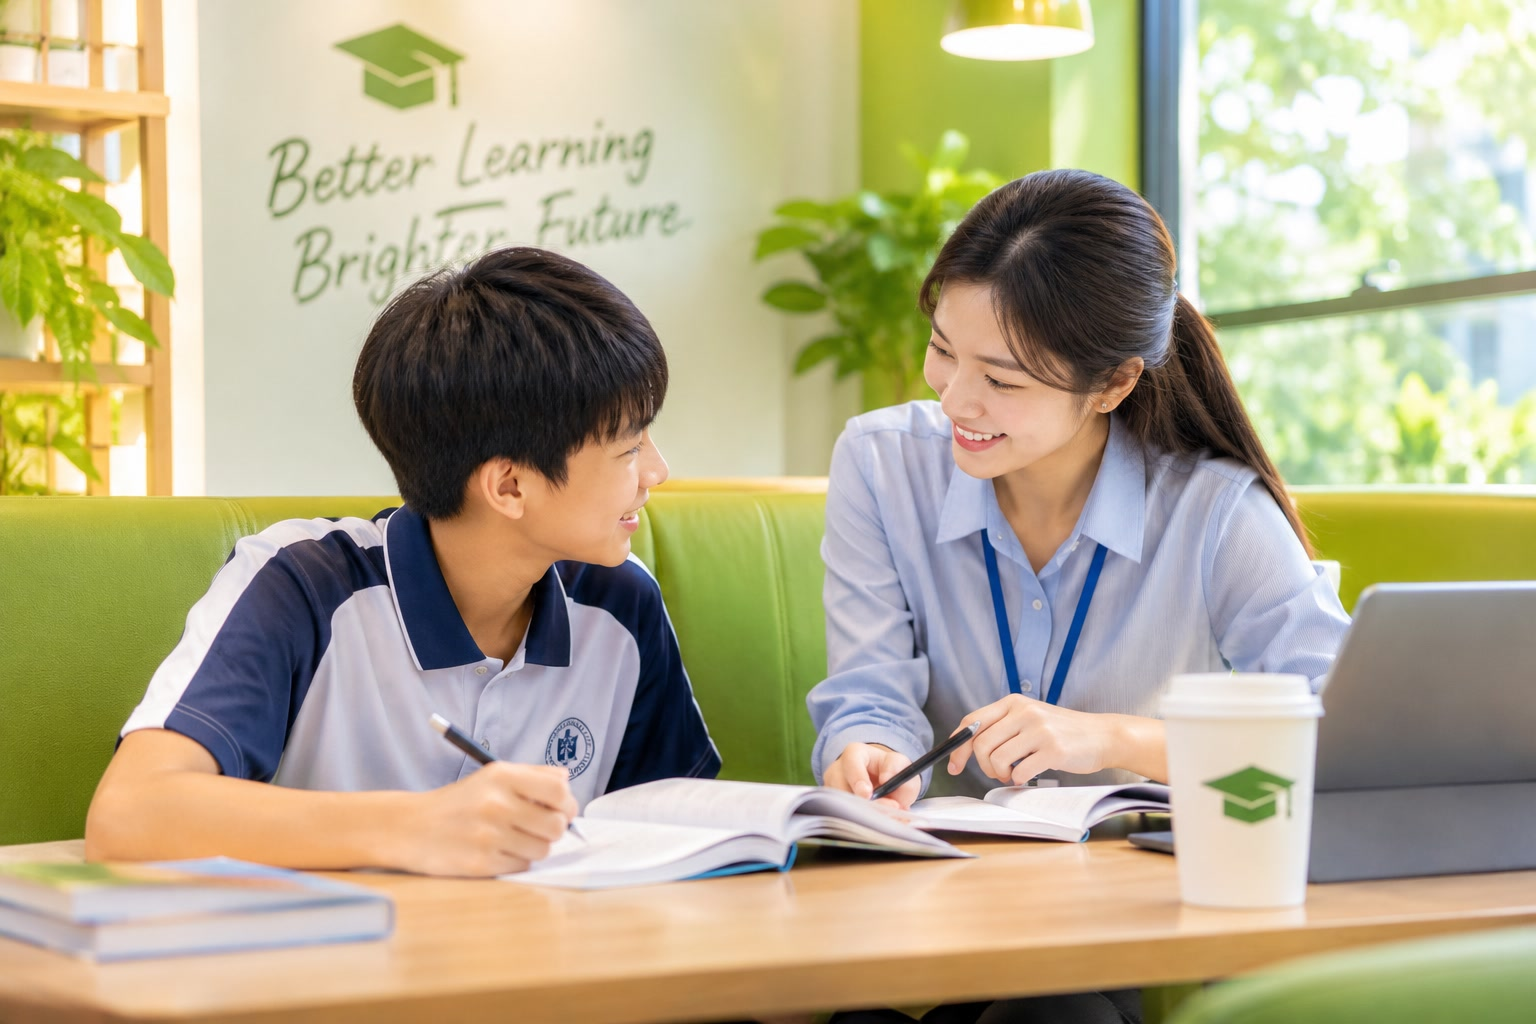
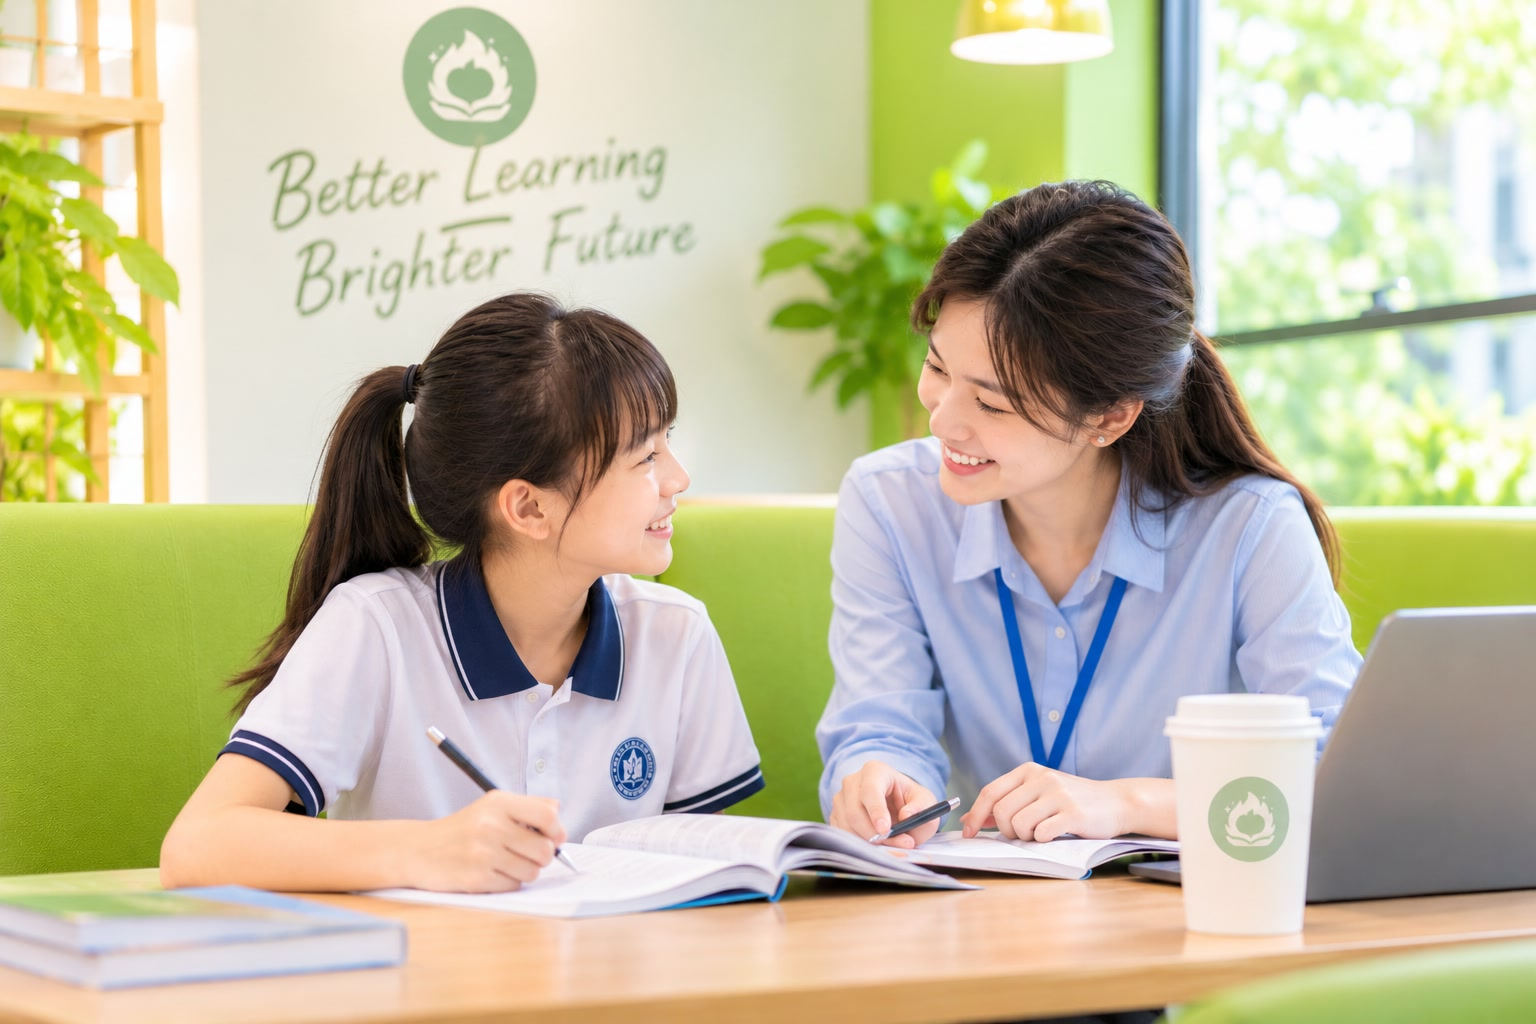
feat(home): girl-tutor hero, forest spark, frosted landing panels
Replace the landing photo, use the natural-companion spark on the index header, frost the first-screen panels, and paint the mentor entry card with the booth lime sampled from the photo.

diff --git a/index.html b/index.html
@@ -34,7 +34,23 @@
       position: relative;
       overflow: hidden;
       isolation: isolate;
+      margin-top: -4rem;
       background: #f1f5f9;
+    }
+    body:has(#roleGate:not(.hidden)) > header.xh-home-bar {
+      background: rgba(255, 255, 255, 0.46);
+      border-bottom-color: rgba(255, 255, 255, 0.45);
+      backdrop-filter: blur(16px);
+      -webkit-backdrop-filter: blur(16px);
+    }
+    body:has(#roleGate:not(.hidden)) > header.xh-home-bar .xh-home-login {
+      background: rgba(255, 255, 255, 0.55);
+      border-color: rgba(255, 255, 255, 0.72);
+      backdrop-filter: blur(12px);
+      -webkit-backdrop-filter: blur(12px);
+    }
+    body:has(#roleGate:not(.hidden)) > header.xh-home-bar .xh-home-login:hover {
+      background: rgba(255, 255, 255, 0.78);
     }
     .xh-home-hero-media,
     .xh-home-hero-scrim {
@@ -56,38 +72,74 @@
       width: 100%;
       height: 100%;
       object-fit: cover;
-      object-position: 64% 42%;
-      transform-origin: 64% 42%;
+      object-position: 52% 40%;
+      transform-origin: 52% 40%;
       animation: xh-home-kenburns 16s ease-in-out infinite alternate;
     }
     @keyframes xh-home-kenburns {
       from { transform: scale(1); }
       to { transform: scale(1.1); }
     }
+    .xh-home-hero > .relative {
+      padding-top: 6.5rem;
+    }
     .xh-home-hero-copy {
       max-width: 40rem;
       margin-left: auto;
       margin-right: auto;
-      background: rgba(241, 245, 249, 0.9);
-      border: 1px solid rgba(255, 255, 255, 0.75);
+      background: rgba(255, 255, 255, 0.68);
+      border: 1px solid rgba(255, 255, 255, 0.7);
       border-radius: 1.25rem;
       padding: 1.15rem 1.25rem 1.05rem;
       box-shadow: 0 10px 28px rgba(15, 23, 42, 0.08);
-      backdrop-filter: blur(8px);
-      -webkit-backdrop-filter: blur(8px);
+      backdrop-filter: blur(16px);
+      -webkit-backdrop-filter: blur(16px);
+    }
+    #roleGate .xh-home-role {
+      background: rgba(255, 255, 255, 0.72);
+      border-color: rgba(255, 255, 255, 0.72);
+      backdrop-filter: blur(16px);
+      -webkit-backdrop-filter: blur(16px);
+    }
+    #roleGate .xh-home-role:hover {
+      background: rgba(255, 255, 255, 0.84);
+    }
+    /* Booth lime sampled from the hero sofa: #ADC147 */
+    #roleGate .xh-home-mentor {
+      background: rgba(173, 193, 71, 0.8);
+      border-color: rgba(154, 174, 52, 0.9);
+      color: #0f172a;
+      backdrop-filter: blur(16px);
+      -webkit-backdrop-filter: blur(16px);
+    }
+    #roleGate .xh-home-mentor:hover {
+      background: rgba(156, 176, 58, 0.9);
+    }
+    #roleGate .xh-home-mentor .xh-home-mentor-icon {
+      background: rgba(255, 255, 255, 0.48);
+      color: #0f172a;
+    }
+    #roleGate .xh-home-mentor .xh-home-mentor-copy {
+      color: #1e293b;
+    }
+    #roleGate .xh-home-mentor .xh-home-mentor-go {
+      color: #0f172a;
+    }
+    #roleGate .xh-home-mentor:hover .xh-home-mentor-go {
+      color: #0f172a;
     }
     @media (max-width: 900px) {
       .xh-home-hero-media {
         bottom: auto;
-        height: 68vw;
-        max-height: 440px;
+        height: calc(4rem + 62vw);
+        max-height: 520px;
       }
       .xh-home-hero-img {
-        object-position: 60% 46%;
-        transform-origin: 60% 46%;
+        object-position: 50% 42%;
+        transform-origin: 50% 42%;
       }
       .xh-home-hero > .relative {
-        padding-top: min(54vw, 340px);
+        padding-top: calc(4rem + min(46vw, 240px));
       }
       .xh-home-hero-scrim {
         background: linear-gradient(180deg, rgba(15, 23, 42, 0.06) 0%, rgba(241, 245, 249, 0.08) 42%, rgba(241, 245, 249, 0.72) 62%, #f1f5f9 74%, #f1f5f9 100%);
@@ -105,12 +157,10 @@
 <body class="bg-slate-100 text-slate-800 antialiased min-h-screen flex flex-col font-sans selection:bg-teal-100 selection:text-teal-900 overflow-x-hidden max-w-[100vw]">
 
   <!-- 顶部系统通知与品牌栏 -->
-  <header class="sticky top-0 z-40 bg-white/95 backdrop-blur-md border-b border-slate-200 shadow-sm transition-all duration-300">
+  <header class="xh-home-bar sticky top-0 z-40 bg-white/95 backdrop-blur-md border-b border-slate-200 shadow-sm transition-all duration-300">
     <div class="max-w-5xl mx-auto px-4 py-3 flex items-center justify-between">
       <div class="flex items-center space-x-3">
-        <div class="w-9 h-9 rounded-xl bg-gradient-to-tr from-teal-700 to-teal-500 text-white flex items-center justify-center font-bold text-lg shadow-md shadow-teal-500/20">
-          <i class="fa-solid fa-graduation-cap"></i>
-        </div>
+        <img src="assets/brand/spark-logo-forest-noface-192.png" alt="星火学伴" width="36" height="36" class="w-9 h-9 rounded-full shrink-0 object-cover" decoding="async" />
         <div>
           <span class="font-black text-slate-900 text-base tracking-tight block leading-tight">星火学伴</span>
           <span class="text-xs text-teal-700 font-medium tracking-wide block">阳光合规一对一课业辅导</span>
@@ -118,7 +168,7 @@
       </div>
 
       <div class="flex items-center gap-2">
-        <button type="button" onclick="safeNavigate('login.html?role=parent', '家长登录')" class="text-xs bg-white hover:bg-slate-50 text-slate-600 px-2.5 py-1.5 rounded-lg border border-slate-200 transition font-medium cursor-pointer">
+        <button type="button" onclick="safeNavigate('login.html?role=parent', '家长登录')" class="xh-home-login text-xs bg-white hover:bg-slate-50 text-slate-600 px-2.5 py-1.5 rounded-lg border border-slate-200 transition font-medium cursor-pointer">
           <i class="fa-solid fa-right-to-bracket text-slate-500"></i>
           <span class="hidden sm:inline ml-1">登录</span>
         </button>
@@ -142,7 +192,7 @@
         <p class="text-sm text-slate-600 max-w-xl mx-auto leading-relaxed">请选择身份进入。家长可匹配双一流导师并约课；导师走 L1/L2 入库认证。登录与深链不会被此页拦截。</p>
       </div>
       <div class="grid grid-cols-1 md:grid-cols-2 gap-4">
-        <button type="button" onclick="enterAsParent()" class="text-left bg-white hover:border-teal-400 hover:shadow-md border border-slate-200 rounded-2xl p-5 sm:p-6 transition cursor-pointer group">
+        <button type="button" onclick="enterAsParent()" class="xh-home-role text-left hover:border-teal-400 hover:shadow-md border border-slate-200 rounded-2xl p-5 sm:p-6 transition cursor-pointer group">
           <div class="w-11 h-11 rounded-xl bg-teal-50 text-teal-700 flex items-center justify-center text-lg mb-3">
             <i class="fa-solid fa-user-group"></i>
           </div>
@@ -150,13 +200,13 @@
           <p class="text-sm text-slate-600 mt-1.5 leading-relaxed">匹配学霸导师、预约试课、课酬托管冻结。未建档将先完成学情档案。</p>
           <span class="inline-flex items-center gap-1 mt-4 text-sm font-bold text-teal-700 group-hover:text-teal-900">进入家长通道 <i class="fa-solid fa-arrow-right text-xs"></i></span>
         </button>
-        <button type="button" onclick="enterAsMentor()" class="text-left bg-slate-900 hover:bg-slate-800 border border-slate-800 rounded-2xl p-5 sm:p-6 transition cursor-pointer text-white group">
-          <div class="w-11 h-11 rounded-xl bg-teal-500/20 text-teal-300 flex items-center justify-center text-lg mb-3">
+        <button type="button" onclick="enterAsMentor()" class="xh-home-mentor text-left border rounded-2xl p-5 sm:p-6 transition cursor-pointer group">
+          <div class="xh-home-mentor-icon w-11 h-11 rounded-xl flex items-center justify-center text-lg mb-3">
             <i class="fa-solid fa-chalkboard-user"></i>
           </div>
           <div class="text-lg font-black">我是导师（入驻）</div>
-          <p class="text-sm text-slate-300 mt-1.5 leading-relaxed">完成 L1 资质核验与 L2 能力画像，入库后即可在工作台接单履约。</p>
-          <span class="inline-flex items-center gap-1 mt-4 text-sm font-bold text-teal-300 group-hover:text-white">进入导师入驻 <i class="fa-solid fa-arrow-right text-xs"></i></span>
+          <p class="xh-home-mentor-copy text-sm mt-1.5 leading-relaxed">完成 L1 资质核验与 L2 能力画像，入库后即可在工作台接单履约。</p>
+          <span class="xh-home-mentor-go inline-flex items-center gap-1 mt-4 text-sm font-bold">进入导师入驻 <i class="fa-solid fa-arrow-right text-xs"></i></span>
         </button>
       </div>
     </div>
